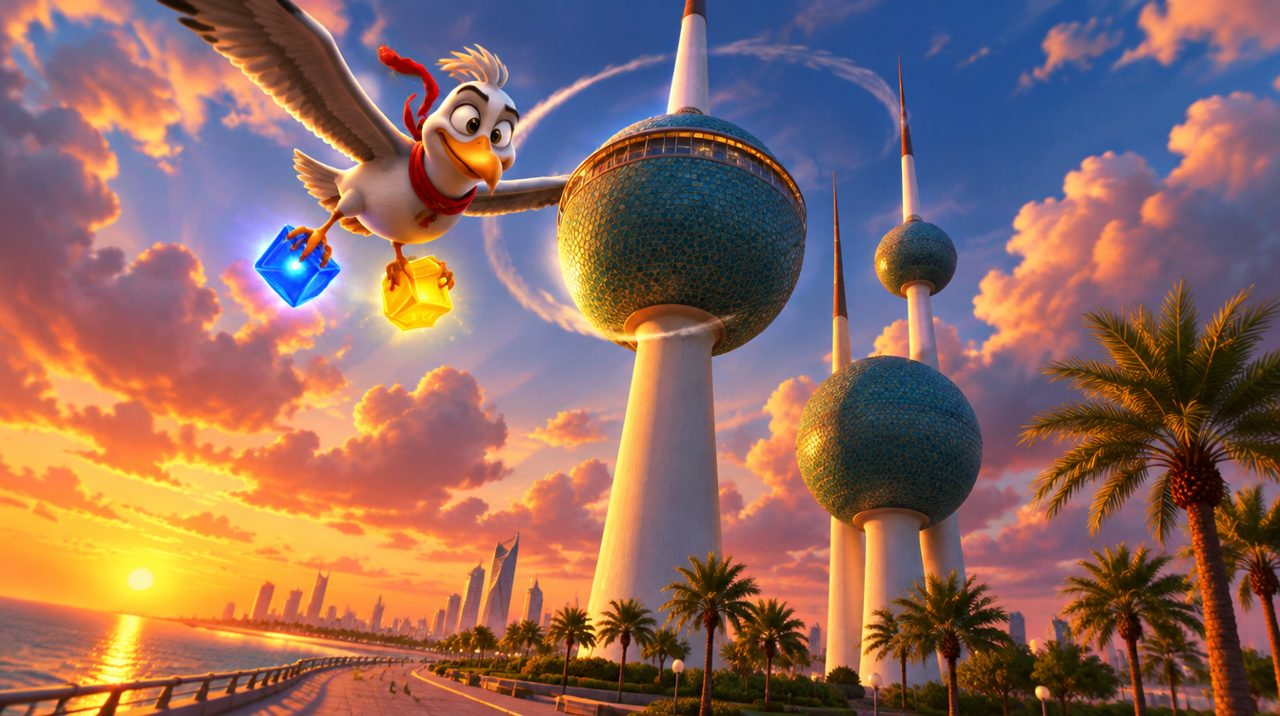
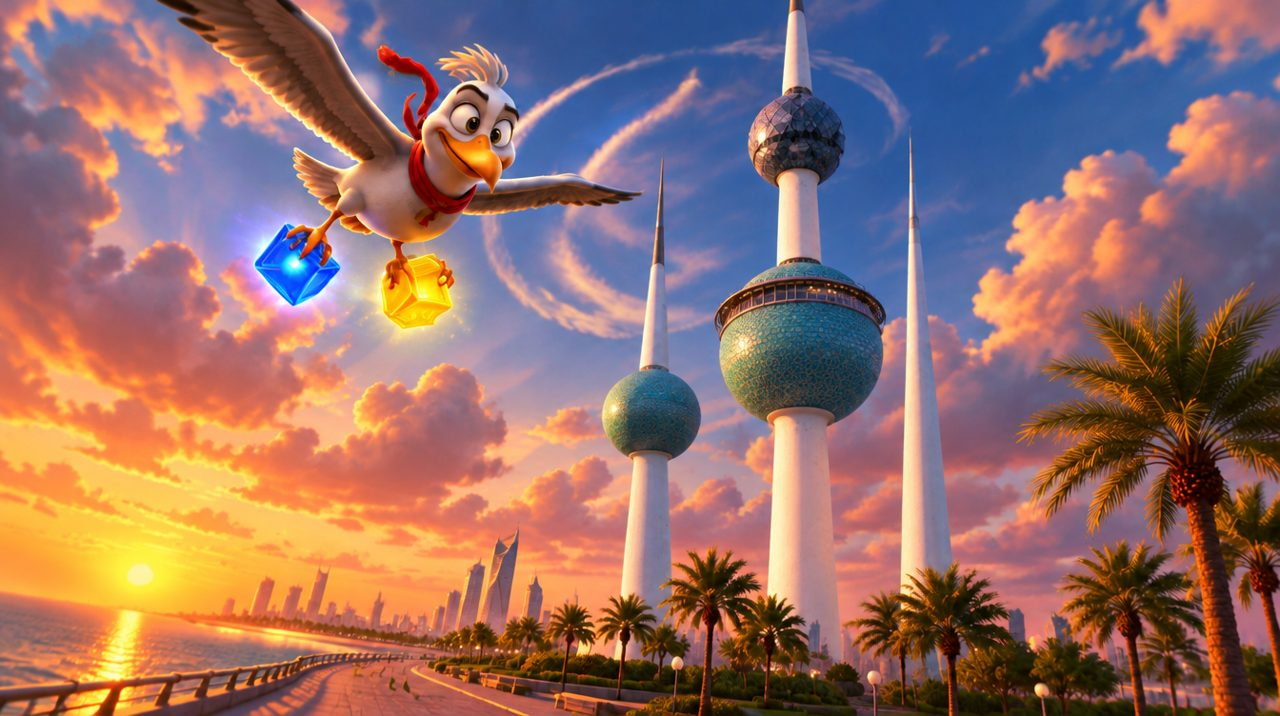
Word Heroes v2: Abdulaziz and Mayar drawn into every story scene; accurate Kuwait Towers
Claude-Session: https://claude.ai/code/session_011txoy61oe5jAh82FMzrJso

diff --git a/abdulaziz-word-heroes-v2.html b/abdulaziz-word-heroes-v2.html
@@ -1310,7 +1310,7 @@ function storyShow(panels, cb) {
 }
 function storyPanel() {
   const [img, id] = stQ[stI2]; const im = $('stImg');
-  if (im.dataset.src !== img) { im.dataset.src = img; im.src = ART + img; im.style.animation = 'none'; void im.offsetWidth; im.style.animation = ''; }
+  if (im.dataset.src !== img) { im.dataset.src = img; const own = KIDSLUG ? img.replace('wh2-', 'wh2-' + KIDSLUG + '-') : img; im.onerror = () => { im.onerror = null; im.src = ART + img; }; im.src = ART + own; im.style.animation = 'none'; void im.offsetWidth; im.style.animation = ''; }
   $('stText').textContent = lineText(id);
   $('stDots').innerHTML = stQ.map((_, i) => `<i class="${i <= stI2 ? 'on' : ''}"></i>`).join('');
   clearTimeout(stAuto); const my = stI2;
@@ -1366,6 +1366,7 @@ $('langEn').onclick = () => { lang = save.lang = 'en'; persist(); drawTitle(); }
 $('startBtn').onclick = () => { if (!save.age) return; vCtx(); musStart(); if (!save.intro) startChapter(0); else openMap(); };
 function toTitle() { vStop(); runId++; timers = []; if (S && STAGE[S.type].exit) { STAGE[S.type].exit(S); S = null; } clearObjs(); state = 'title'; showOnly('title'); drawTitle(); }
 $('mapBack').onclick = toTitle;
+const KIDSLUG = (CHILD.runModel && /^([\w]+)-run/.test(CHILD.runModel)) ? CHILD.runModel.match(/^([\w]+)-run/)[1] : null; // story pictures with the child drawn in: wh2-<slug>-<scene>.jpg
 const HUB = (CHILD.runModel && /^([\w]+)-run/.test(CHILD.runModel)) ? CHILD.runModel.match(/^([\w]+)-run/)[1] + '.html' : 'index.html';
 $('hubBtn').href = HUB;
 $('stBack').onclick = e => { e.stopPropagation(); clearTimeout(stAuto); stCb = null; openMap(); };

diff --git a/mayar-word-heroes-v2.html b/mayar-word-heroes-v2.html
@@ -1310,7 +1310,7 @@ function storyShow(panels, cb) {
 }
 function storyPanel() {
   const [img, id] = stQ[stI2]; const im = $('stImg');
-  if (im.dataset.src !== img) { im.dataset.src = img; im.src = ART + img; im.style.animation = 'none'; void im.offsetWidth; im.style.animation = ''; }
+  if (im.dataset.src !== img) { im.dataset.src = img; const own = KIDSLUG ? img.replace('wh2-', 'wh2-' + KIDSLUG + '-') : img; im.onerror = () => { im.onerror = null; im.src = ART + img; }; im.src = ART + own; im.style.animation = 'none'; void im.offsetWidth; im.style.animation = ''; }
   $('stText').textContent = lineText(id);
   $('stDots').innerHTML = stQ.map((_, i) => `<i class="${i <= stI2 ? 'on' : ''}"></i>`).join('');
   clearTimeout(stAuto); const my = stI2;
@@ -1366,6 +1366,7 @@ $('langEn').onclick = () => { lang = save.lang = 'en'; persist(); drawTitle(); }
 $('startBtn').onclick = () => { if (!save.age) return; vCtx(); musStart(); if (!save.intro) startChapter(0); else openMap(); };
 function toTitle() { vStop(); runId++; timers = []; if (S && STAGE[S.type].exit) { STAGE[S.type].exit(S); S = null; } clearObjs(); state = 'title'; showOnly('title'); drawTitle(); }
 $('mapBack').onclick = toTitle;
+const KIDSLUG = (CHILD.runModel && /^([\w]+)-run/.test(CHILD.runModel)) ? CHILD.runModel.match(/^([\w]+)-run/)[1] : null; // story pictures with the child drawn in: wh2-<slug>-<scene>.jpg
 const HUB = (CHILD.runModel && /^([\w]+)-run/.test(CHILD.runModel)) ? CHILD.runModel.match(/^([\w]+)-run/)[1] + '.html' : 'index.html';
 $('hubBtn').href = HUB;
 $('stBack').onclick = e => { e.stopPropagation(); clearTimeout(stAuto); stCb = null; openMap(); };
